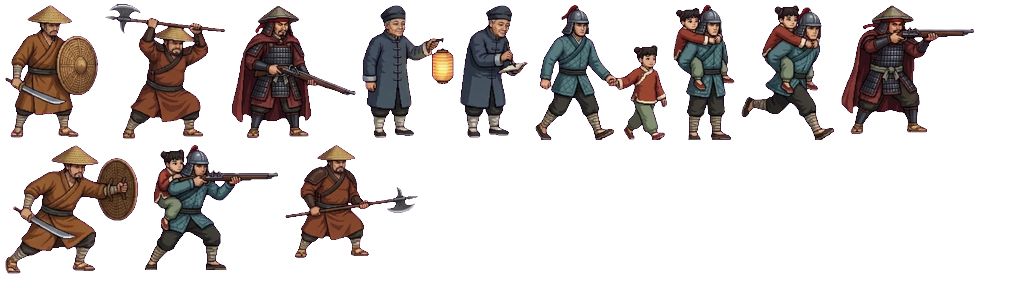
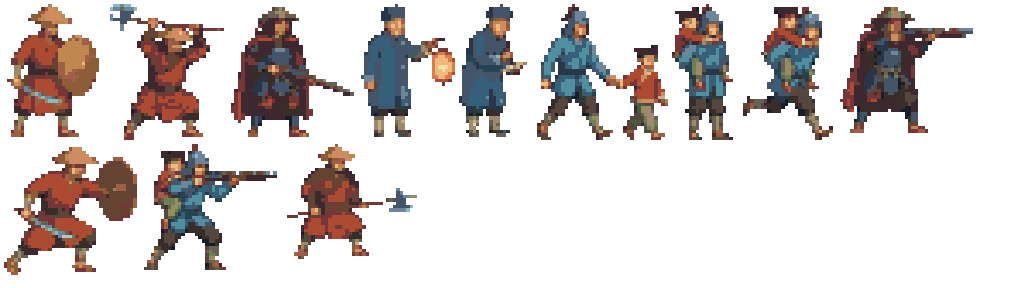
feat(art): 强化明代人物的像素轮廓与色块
周戍用 44 像素高的站姿网格突出铁盔和靛青短袄，小满用 33 像素高的网格突出双髻、红褐布袄和布针套。同步导出主要敌人、守塔人和牵手背负姿势。保留贴图裁切、脚底锚点及全部跑步、起停和滑铲帧。

基线为 main@acad544，包含角色动作远端 05a3ca9。已核对独立的 #35 动画与 #36 场景分支，其中 #35 使用同名动作图集，后续合流须从双方的最终原画重新导出。小满体素线和木刻过场有独立资产。

九张图集本地重建一致。仓库检查及资产审计通过。macOS 27.3 的 Dora Web Player 1280×720 测试中，integration 52 项和 depth 54 项通过，并验证两人的键盘跑步和周戍急停、滑铲。测试夹具使用已有的惰性目标加载，避开基线 Web 导出已有的循环依赖。Windows 真机待测。

Changed region(s): [[0.0, 0.0, 0.9688, 0.5], [0.0, 0.5, 0.4062, 0.9688]]

diff --git a/art-source/characters/pixel_style.py b/art-source/characters/pixel_style.py
@@ -1,0 +1,182 @@
+"""Paint the game's live 2D characters on a coarser pixel grid."""
+
+from pathlib import Path
+from xml.etree import ElementTree as XML
+
+from PIL import Image, ImageChops, ImageColor, ImageFilter
+
+
+HERE = Path(__file__).resolve().parent
+SOLDIER_PIXEL = 4.5
+CHILD_PIXEL = 4.3
+COVERAGE = 100
+PALETTE = tuple(map(ImageColor.getrgb, (
+    # Ink, iron and weathered indigo cloth
+    "#191c29", "#293548", "#445469", "#6d869c", "#b5c5cc",
+    "#244353", "#365f79", "#508fa0", "#85bdbe",
+    # Iron-red cloth, leather and straw
+    "#3e2830", "#753638", "#ac4a32", "#d87d4b",
+    "#382d29", "#55473e", "#644332", "#8d5d37", "#be8850",
+    # Trousers, skin and undyed cloth
+    "#2e3c36", "#495b43", "#6b8055", "#968d5e",
+    "#a15f47", "#cf8c60", "#efb97e", "#ffdea2",
+    "#686052", "#9d896c", "#c5af86", "#e8d5ab",
+)))
+TRANSPARENT = len(PALETTE)
+INDEXED = Image.new("P", (1, 1))
+INDEXED.putpalette([
+    channel for rgb in PALETTE + ((0, 0, 0),) * (256 - len(PALETTE))
+    for channel in rgb
+])
+
+# Helmet and hair landmarks, in the pose cels before downsampling.
+# Coordinates are (head center x, top, neck); the feet and props retain their pivots.
+POSE_HEADS = {
+    "soldier_idle": (35, 0, 63), "soldier_run": (121, 0, 53),
+    "soldier_step": (110, 0, 53), "soldier_roll": (145, 0, 84),
+    "soldier_cover": (137, 0, 64), "soldier_push": (135, 0, 61),
+    "soldier_hold": (85, 16, 76), "soldier_offer": (118, 0, 72),
+    "soldier_knock": (130, 0, 70), "soldier_hit": (34, 0, 51),
+    "soldier_fire": (112, 0, 45), "soldier_push_step": (120, 0, 58),
+    "soldier_fire_run": (140, 0, 45), "soldier_fire_run_step": (148, 0, 46),
+    "soldier_slide_0": (151, 45, 102), "soldier_slide_1": (130, 70, 124),
+    "soldier_slide_2": (155, 57, 117), "soldier_slide_3": (154, 41, 108),
+    "child_idle": (27, 0, 56), "child_run": (67, 0, 53),
+    "child_step": (73, 0, 55), "child_fear": (62, 0, 70),
+    "child_crouch": (189, 0, 88), "child_crouch_step": (174, 0, 87),
+    "child_peek": (112, 0, 55), "child_pull": (86, 0, 56),
+    "child_aim": (56, 0, 47), "child_throw": (72, 0, 52),
+    "child_knock": (46, 0, 53), "child_offer": (48, 0, 53),
+    "child_pull_step": (50, 0, 58),
+}
+
+# NPC and paired pose sources share the existing clip rectangles, stacked in one
+# image. Only the actor tiles are present in this source sheet.
+CAST_SHEETS = (
+    ("sprites", 0, 1.55, ("enemy_", "scavenger_", "dog_")),
+    ("actors_extra", 512, 3.4, ("enemy_", "tower_guard_", "duo_")),
+    ("sprites_fe", 800, 1.45, ("carry_", "soldier_", "child_", "tower_guard_")),
+)
+
+
+def widen_head(cel, center, top, neck):
+    """Give the head a wider silhouette, easing the change into the neck."""
+    height = neck - top
+    radius = round(height * 0.82)
+    left, right = max(0, center - radius), min(cel.width, center + radius)
+    crop = cel.crop((left, top, right, neck))
+    pivot = center - left
+    edge_a = round(pivot * 0.22)
+    edge_b = round(pivot + (crop.width - pivot) * 0.78)
+    mesh = []
+    for y in range(height):
+        weight = min(1, (height - y - 1) / (height * 0.34))
+        scale = 1 + 0.34 * weight * weight * (3 - 2 * weight)
+        dest = (0, edge_a, edge_b, crop.width)
+        src = (0, pivot + (edge_a - pivot) / scale,
+               pivot + (edge_b - pivot) / scale, crop.width)
+        for x0, x1, u0, u1 in zip(dest, dest[1:], src, src[1:]):
+            if x0 < x1:
+                mesh.append(((x0, y, x1, y + 1), (u0, y, u0, y + 1, u1, y + 1, u1, y)))
+    result = cel.copy()
+    result.paste(crop.transform(crop.size, Image.Transform.MESH, mesh, Image.Resampling.BICUBIC),
+                 (left, top))
+    return result
+
+
+def paint_cel(cel, pixel_size, iron_to=None):
+    grid = max(1, round(cel.width / pixel_size)), max(1, round(cel.height / pixel_size))
+    sampled = cel.resize(grid, Image.Resampling.BOX)
+    alpha = sampled.getchannel("A").point(lambda a: 255 if a >= COVERAGE else 0)
+    edge = ImageChops.subtract(alpha, alpha.filter(ImageFilter.MinFilter(3)))
+
+    # Cool cloth takes a blue lift, and faces keep warm broad highlights.
+    colors = []
+    iron_row = iron_to * grid[1] / cel.height if iron_to is not None else 0
+    for index, ((r, g, b, a), rim) in enumerate(zip(sampled.getdata(), edge.getdata())):
+        if a < COVERAGE:
+            colors.append((0, 0, 0))
+            continue
+        luma = (3 * r + 6 * g + b) / 10
+        lift = 6 if rim else 10
+        if iron_to is not None and luma < 145 and r - g <= 15 and g - b <= 21:
+            # Keep the guard's iron helmet cooler and less saturated than his coat.
+            helmet = index // grid[0] < iron_row
+            r = luma - (4 if helmet else 13)
+            g = luma + (0 if helmet else 7)
+            b = luma + (14 if helmet else 23)
+        elif b >= r and luma < 145:
+            g += 5
+            b += 12
+            lift += 6
+        if r > g * 1.22 and g > b:
+            r += 7
+        if r > 135 and r - g >= 18 and g - b >= 8:
+            lift += 6
+        light = 0.95 * luma + lift + 7 * min(1, luma / 48)
+        colors.append(tuple(max(0, min(255, round(light + (channel - luma) * 1.34)))
+                            for channel in (r, g, b)))
+
+    flat = Image.new("RGB", grid)
+    flat.putdata(colors)
+    indexed = flat.quantize(palette=INDEXED, dither=Image.Dither.NONE)
+    # Merge isolated variations in adjacent shades. High-contrast details
+    # such as the profile, cuffs and helmet band survive the cleanup.
+    indexed.paste(TRANSPARENT, (0, 0, *grid), ImageChops.invert(alpha))
+    nearby = indexed.filter(ImageFilter.ModeFilter(3))
+    indices = []
+    for current, neighbor in zip(indexed.getdata(), nearby.getdata()):
+        if current != neighbor and current < TRANSPARENT and neighbor < TRANSPARENT:
+            difference = sum((a - b) ** 2 for a, b in zip(PALETTE[current], PALETTE[neighbor]))
+            if difference < 52 ** 2:
+                current = neighbor
+        indices.append(current)
+    indexed.putdata(indices)
+    result = indexed.convert("RGBA")
+    result.putalpha(alpha)
+    return result.resize(cel.size, Image.Resampling.NEAREST)
+
+
+def paint_pose(key, cel):
+    soldier = key.startswith("soldier_")
+    pixel_size = SOLDIER_PIXEL if soldier else CHILD_PIXEL
+    center, top, neck = POSE_HEADS[key]
+    return paint_cel(widen_head(cel, center, top, neck), pixel_size, neck if soldier else None)
+
+
+def paint_motion(cel, soldier):
+    pixel_size = SOLDIER_PIXEL if soldier else CHILD_PIXEL
+    head_height = 54 if soldier else 60
+    # Running, stopping and sliding all keep the head above the hands. Sample
+    # mid-head (below the plume or buns) to track it across the existing motion.
+    alpha = cel.getchannel("A").point(lambda a: 255 if a >= COVERAGE else 0)
+    _, top, _, bottom = alpha.getbbox()
+    neck = min(top + head_height, bottom)
+    head = alpha.crop((0, top + head_height // 3, cel.width, top + head_height * 2 // 3))
+    left, _, right, _ = head.getbbox()
+    return paint_cel(widen_head(cel, (left + right) // 2, top, neck),
+                     pixel_size, neck if soldier else None)
+
+
+def cast_frames(art):
+    for stem, offset, block, prefixes in CAST_SHEETS:
+        clip = XML.parse(art / (stem + ".clip")).getroot()
+        frames = {
+            node.attrib["A"]: tuple(map(int, node.attrib["B"].split(",")))
+            for node in clip if node.attrib["A"].startswith(prefixes)
+        }
+        yield art / clip.attrib["A"], offset, block, frames
+
+
+def export_cast(art):
+    with Image.open(HERE / "support-poses.png") as source:
+        for path, offset, block, frames in cast_frames(art):
+            with Image.open(path) as image:
+                atlas = image.convert("RGBA")
+            for key, (x, y, w, h) in frames.items():
+                cel = source.crop((x, y + offset, x + w, y + offset + h))
+                if not cel.getbbox():
+                    raise ValueError(f"Missing source cel for {path.name}: {key}")
+                size = 1 if key.startswith("dog_") else block
+                atlas.paste(paint_cel(cel, size), (x, y))
+            atlas.save(path, optimize=True)

diff --git a/art-source/characters/build.py b/art-source/characters/build.py
@@ -11,6 +11,8 @@ from xml.etree import ElementTree as XML
 
 from PIL import Image, ImageChops, ImageDraw, ImageEnhance, ImageFilter
 
+from pixel_style import export_cast, paint_motion, paint_pose
+
 
 HERE = Path(__file__).resolve().parent
 ART = HERE.parents[1] / "assets" / "art"
@@ -214,14 +216,14 @@ def running_frames(image, rig, samples):
         yield canvas.resize(rig.cel, Image.Resampling.LANCZOS)
 
 
-def motion_atlas(name, frames, size, count=FRAMES, columns=COLUMNS):
+def motion_atlas(name, frames, size, count=FRAMES, columns=COLUMNS, *, soldier):
     w, h = size
     tile_w, tile_h = w + 2 * GUTTER, h + 2 * GUTTER
     atlas = Image.new("RGBA", (tile_w * columns, tile_h * ((count + columns - 1) // columns)))
     for index, frame in enumerate(frames):
         x = (index % columns) * tile_w + GUTTER
         y = (index // columns) * tile_h + GUTTER
-        atlas.paste(frame, (x, y))
+        atlas.paste(paint_motion(frame, soldier), (x, y))
     atlas.save(ART / (name + ".png"), optimize=True)
 
 
@@ -407,14 +409,17 @@ def main():
     )):
         cels[f"soldier_slide_{index}"] = pose_cel(trim(image), height, center, SLIDE_SIZE)
 
-    pose_atlas(cels)
+    pose_atlas({key: paint_pose(key, cel) for key, cel in cels.items()})
     for name, key, rig in (("zhoushu", "soldier", SOLDIER), ("xiaoman", "child", CHILD)):
         source = sources[f"{key}_run"]
         samples = ((index / FRAMES, 1) for index in range(FRAMES))
-        motion_atlas(f"{name}-run", running_frames(source, rig, samples), rig.cel)
+        motion_atlas(f"{name}-run", running_frames(source, rig, samples),
+                     rig.cel, soldier=rig is SOLDIER)
         motion_atlas(f"{name}-run-transition", transition_frames(source, rig, cels[f"{key}_idle"]),
-                     rig.cel, TRANSITION_LEVELS * TRANSITION_PHASES, TRANSITION_PHASES)
-    motion_atlas("zhoushu-slide", slide_frames(cels), SLIDE_SIZE, SLIDE_FRAMES, 8)
+                     rig.cel, TRANSITION_LEVELS * TRANSITION_PHASES, TRANSITION_PHASES,
+                     soldier=rig is SOLDIER)
+    motion_atlas("zhoushu-slide", slide_frames(cels), SLIDE_SIZE, SLIDE_FRAMES, 8, soldier=True)
+    export_cast(ART)
 
 
 if __name__ == "__main__":

diff --git a/art-source/SOURCES.md b/art-source/SOURCES.md
@@ -12,13 +12,17 @@
 
 本分支新增的场景和像素素材使用 Codex 内置 ImageGen 生成，按游戏规格裁切、校正脚底位置、整理帧并打包。补充动作以本工程生成的基础角色图作为参照。游戏运行时随包读取本地图像。Dora SSR 许可随官方发行包提供。
 
-## 高清人物与滑铲动作
+## 实时人物与滑铲动作
 
-[周戍原画](characters/zhoushu.png)、[小满原画](characters/xiaoman.png)和[补充姿势](characters/extra-poses.png)来自本作原有明朝角色稿。站姿等常用姿势从原画重新导出，周戍由 66 提升至 198 像素高，小满由 48 提升至 144 像素高。跑步使用同一原画的上身、手臂、裤腿、裹腿和布鞋分层，按脚步循环逐帧合成，每人 160 张。引擎按位移取帧并复用一个精灵节点。
+[周戍原画](characters/zhoushu.png)、[小满原画](characters/xiaoman.png)和[补充姿势](characters/extra-poses.png)来自本作原有明朝角色稿。周戍、小满的常用姿势分别用 198 和 144 像素高的中间帧统一对齐。跑步使用同一原画的上身、手臂、裤腿、裹腿和布鞋分层，按脚步循环逐帧合成，每人 160 张。引擎按位移取帧并复用一个精灵节点。
 
 [周戍滑铲原画](characters/zhoushu-slide.png)由 Codex 内置 ImageGen 参考原角色稿生成。按盔、肩、肘、膝和鞋跟等位置，在四张原画之间生成 64 张滑铲画面。低姿滑行时支撑鞋跟对齐地面，首尾接回站姿，整套沿用原地面冲刺计时。
 
-周戍和小满的起步与停步各有一张 96 帧过渡图集，由八个步相和十二档步幅合成。停步时保留脚步所在的步相并减小步幅，回到原站姿。使用已安装 Pillow 的 Python 运行 [build.py](characters/build.py) 重建角色图集、原跑步循环、起停过渡和滑铲。
+周戍和小满的起步与停步各有一张 96 帧过渡图集，由八个步相和十二档步幅合成。停步时保留脚步所在的步相并减小步幅，回到原站姿。
+
+新版实时人物沿用本作原画和动画骨架。周戍站姿在 44 像素高的网格上着色，小满站姿用 33 像素高的网格。铁盔、靛青短袄、双髻与红褐布袄用较大的明暗色块表现。头部略拓宽，放回引擎图集时沿用原裁切尺寸、脚底锚点和动作时序。
+
+[补充人物源图](characters/support-poses.png)收录普通铳手、拾荒者、林犬、精英敌兵、守塔人和牵手、背负等已有姿势。源图按原裁切位置叠放三张图集的角色区域，从上到下对应 `sprites.clip`、`actors_extra.clip` 和 `sprites_fe.clip`。用已安装 Pillow 的 Python 运行 `python -B art-source/characters/build.py`，可以重建实时人物图集和跑步、起停、滑铲帧。
 
 ```text
 Use case: stylized-concept.
